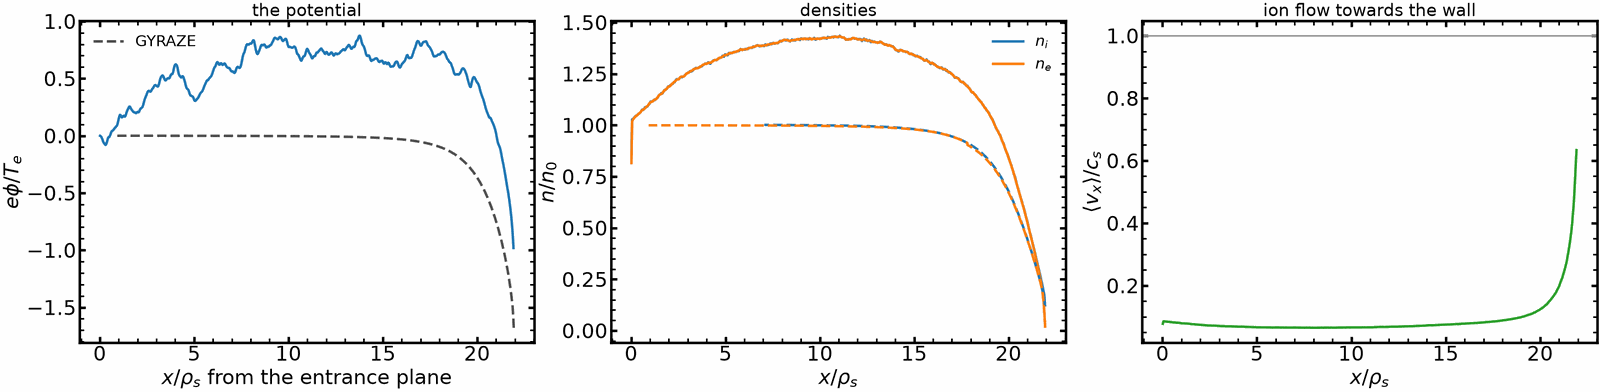
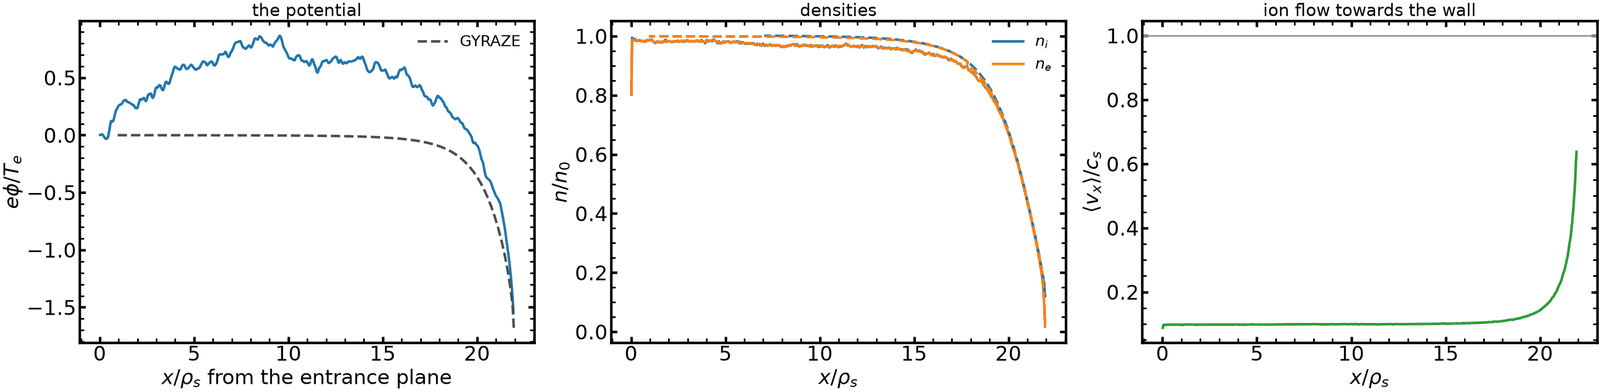
W8: rehearsal after the reservoir start; the entrance-plane cause, recorded
grazing_sheath.md: the rehearsal table and figure from the rerun, the before/after
comparison and the diagnostic that isolated the cold start. plan.md 16: the W8
subsection with the evidence, the remaining 1.6 % flux gap and the matched run.

diff --git a/docs/examples/grazing_sheath.md b/docs/examples/grazing_sheath.md
@@ -112,27 +112,51 @@ to `run.json`, and the reference is drawn dashed on the figure.
 
 ### The rehearsal: $m_i/m_e = 400$ at 5°, $\gamma = 0.54$
 
-Default preset, three ion transits, 5.4 h on one A4000; GYRAZE reference at $\epsilon =
+Default preset, three ion transits, 5.6 h on one A4000; GYRAZE reference at $\epsilon =
 \lambda_D/\rho_B = 0.25$, where the reference's dropped orders are large.
 
 | quantity | this code | GYRAZE | tolerance | verdict |
 |---|---|---|---|---|
-| Debye-sheath drop $[T_e/e]$ | −0.588 | −0.526 | 0.20 | pass |
-| mean ion impact energy $[T_e]$ | 4.43 | 4.67 | 0.66 | pass |
-| wall potential $[T_e/e]$ | −1.03 | −1.68 | 2.9 (noise 0.81) | pass, uninformative |
-| presheath potential, max diff | 0.89 | — | 2.9 | pass, uninformative |
-| ion flux $[n_0\sqrt{T_e/m_e}]$ | 0.0074 | 0.0070 | 0.0003 | fail (+6 %) |
-| ion density, max diff $[n_0]$ | 0.44 | — | 0.40 | fail |
-| electron density, max diff $[n_0]$ | 0.44 | — | 0.40 | fail |
+| Debye-sheath drop $[T_e/e]$ | −0.647 | −0.526 | 0.23 | pass |
+| mean ion impact energy $[T_e]$ | 4.83 | 4.67 | 0.51 | pass |
+| wall potential $[T_e/e]$ | −1.60 | −1.68 | 1.75 (noise 0.43) | pass, weak |
+| presheath potential, max diff | 0.87 | — | 1.80 (noise 0.50) | pass, weak |
+| ion flux $[n_0\sqrt{T_e/m_e}]$ | 0.00684 | 0.00695 | 0.00011 | fail by 5 % of the allowance (−1.6 %, 3.2 SE) |
+| ion density, max diff $[n_0]$ | 0.039 | — | 0.21 | pass |
+| electron density, max diff $[n_0]$ | 0.036 | — | 0.21 | pass |
 
 ![Rehearsal against GYRAZE](../_static/figures/grazing_rehearsal.png)
 
-The Debye sheath and the impact energy agree. The magnetic presheath does not: the ion density
-at the entrance plane is 0.82 $n_0$, the potential rises about 0.8 $T_e/e$ above the plane,
-ions slow along $\mathbf B$ to half the reference flow, and the density piles up to 1.4 $n_0$.
-The likely cause, not yet tested: the open entrance plane absorbs ions that gyrate back across
-it within one gyroradius, so the plane is not the neutral, field-free entrance GYRAZE assumes.
-The matched run waits on a fix of the entrance treatment.
+The densities through the magnetic presheath now follow the reference to 0.04 $n_0$, the ion
+flow towards the wall is $0.098\,c_s$ at the plane, which is the entrance distribution's own
+$1.5958\,\sqrt{T_i/m_i}\sin\alpha$, and the flux $n u_x$ is constant through the presheath.
+The ion flux is 1.6 % under the reference, 3.2 standard errors against an allowance of 3,
+with no model allowance declared for it. The potential still wanders by up to 0.8 $T_e/e$
+over the presheath, but its standard error there is 0.5 $T_e/e$: in a quasineutral layer the
+potential is set by a charge imbalance far below the densities' noise, so it is the noisiest
+number of the seven.
+
+**What was wrong before.** The first rehearsal started the box cold, the particles at rest.
+Ions with no parallel velocity are exactly what the Chodura condition says the entrance has
+none of; they leave only as the presheath field pulls them, far slower than a transit, and
+after three transits they had piled the density up to 1.4 $n_0$, raised the potential
+0.8 $T_e/e$ above the plane and halved the mean flow. The box now starts at the entrance
+plane's state, with velocities drawn from the reservoirs the sources emit from. Two cheap
+runs at 0.6 transits and 20 markers a cell isolated it: from rest, the ion flux was a third
+of the reference and both density rows failed; from the reservoirs, all seven rows passed.
+The open plane was not the cause: in both, 72–77 % of the ion weight injected leaves back
+through it, which is the half-space reservoir working as intended — an ion that gyrates out
+is replaced by the fresh crossings the source draws from the same distribution.
+
+| rehearsal, three transits | cold start | reservoir start |
+|---|---|---|
+| wall potential $[T_e/e]$ | −1.03 | −1.60 |
+| Debye-sheath drop $[T_e/e]$ | −0.588 | −0.647 |
+| mean ion impact energy $[T_e]$ | 4.43 | 4.83 |
+| ion flux $[n_0\sqrt{T_e/m_e}]$ | 0.0074 | 0.00684 |
+| ion density, max diff $[n_0]$ | 0.44 | 0.039 |
+| electron density, max diff $[n_0]$ | 0.44 | 0.036 |
+| presheath potential, max diff $[T_e/e]$ | 0.89 | 0.87 |
 
 ## How to run
 

diff --git a/plan.md b/plan.md
@@ -1160,3 +1160,59 @@ README 1D1V rows for both new examples and the filter ratio; CI Examples job run
 scripts.
 
 Left for other lanes: G04 and G09 (W12); the `sampling` rename of section 7.
+
+### W8: the entrance plane, found and fixed (2026-09-27)
+
+**Cause: the cold initial load, not the open plane.** The example filled a quarter of each pool
+at `t = 0` with particles at rest (`Species` with no `vth`). Ions with `v_par = 0` are what the
+Chodura condition excludes from the entrance; in the presheath's weak field they leave far slower
+than a transit. After three transits they were the extra 0.4 `n_0` of the pile-up, and the
+potential rose to confine electrons around them.
+
+Evidence, two runs on office GPU 0 at the rehearsal's physical parameters (`--gamma=0.5377
+--markers=20 --transits=0.6`), identical but for the start. Scratch diagnostics in
+`office:~/w8/diag/{cold,reservoir}/run.log`:
+
+| 0.6 transits | cold start | reservoir start |
+|---|---|---|
+| ion flux / reference | 0.0023 / 0.0070 (fail) | 0.0070 / 0.0070 (pass) |
+| ion, electron density max diff | 0.70, 0.69 (fail) | 0.055, 0.052 (pass) |
+| mean impact energy | 4.05 | 4.60 (ref 4.67) |
+| injected ion weight leaving back through the plane | 77 % | 72 % |
+| electrons leaving back through the plane | 98.6 % | 98.3 % |
+
+The plane re-absorbs about three quarters of the ions it emits in **both** runs, and the
+reservoir start still meets every tolerance. So the re-absorption is the half-space reservoir
+working as intended, not a defect: a gyrating ion that leaves is replaced by the fresh crossings
+drawn from the same distribution. No buffer, re-emission or `phi' = 0` change is needed, and no
+package code changed.
+
+**Fix** (`examples/3_advanced/grazing_sheath.py`, commit `80fb5ec`; the runs used the same change as `77a80cc` before a rebase): the initial slots take
+their velocities from the same reservoirs the sources emit from (`Species(v=...)`).
+
+**Rehearsal at full preset after the fix** (`office:~/w8/rehearsal-77a80cc`, 5.6 h, GPU 0):
+
+| quantity | before (cold) | after | GYRAZE | tolerance | after |
+|---|---|---|---|---|---|
+| wall potential | -1.034 | -1.601 | -1.679 | 1.75 | pass |
+| Debye-sheath drop | -0.588 | -0.647 | -0.526 | 0.23 | pass |
+| presheath potential max diff | 0.89 | 0.87 | -- | 1.80 | pass |
+| ion density max diff | 0.44 | 0.039 | -- | 0.21 | pass |
+| electron density max diff | 0.44 | 0.036 | -- | 0.21 | pass |
+| mean impact energy | 4.43 | 4.83 | 4.67 | 0.51 | pass |
+| ion flux | 0.0074 | 0.00684 | 0.00695 | 0.000106 | fail (diff 0.000111, 3.2 SE) |
+
+Flow at the plane 0.098 `c_s`, the entrance value, with `n u_x` constant through the presheath.
+Open: the flux is 1.6 % low at 3.2 SE against a 3 SE allowance with no model term. Candidates are
+the first cell's 0.82 `n_0` deficit at the plane (a deposit edge, outside the compared region)
+and the `O(alpha)` difference between GYRAZE's flux along B times `sin alpha` and a full-orbit
+normal flux; neither is tested. The presheath potential's standard error, 0.5 `T_e/e`, makes that
+row weak.
+
+**Matched run launched** after this, judged close enough to proceed since it tests the same
+physics inside the reference's range: `office:~/w8/matched-77a80cc`, PID 979146, started
+2026-09-27 16:24 on GPU 0 from `~/w8/code-77a80cc`, `--matched --gamma=0.6009
+--reference=~/gyraze-runs/matched-M900-a4-gDS0.2`, 8.39e6 steps, 12-43 h. Collect: `done` appears
+in that directory when it exits; read the tail of `run.log` and `grazing_sheath_matched/run.json`,
+then add its table and figure (PIL, ~1600 px, 128 colours) to `grazing_sheath.md`. Next: the 3 and
+5 degree scan, which needs `--angle`.
